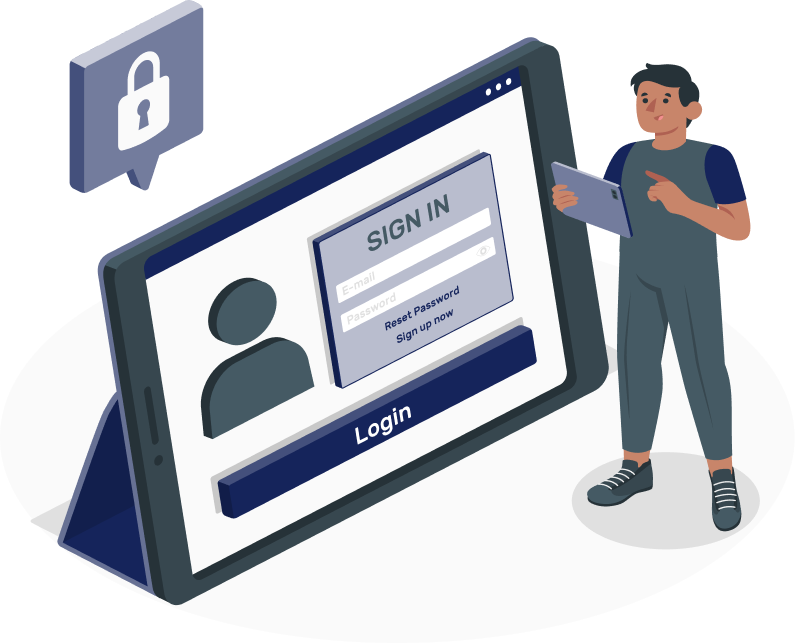
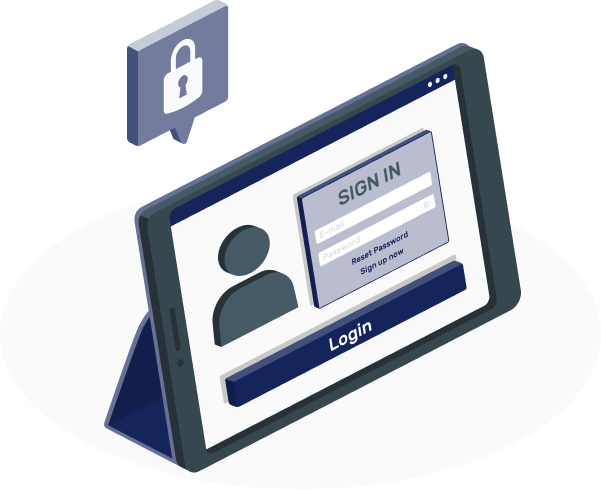
size text

diff --git a/apprechartcle/src/pages/login.js b/apprechartcle/src/pages/login.js
@@ -6,41 +6,42 @@ import Google from './../images/google.png' ;
 function Login () {
 
     return(
-        <div className="flex w-full   ">
+        <div className="flex w-full  mb-10   ">
            
-            <div className=" flex-wrap w-full h-full bg-[#c3eefb] justify-center items-center md:flex-row md:space-x-6  md:space-y-0  ">
-                   <div className="text-4xl font-signature mt-2 ">
-                   <img src={Logo} alt="logo" className='w-25 inline-block items-center' />
+            <div className=" flex-wrap  w-full h-full bg-[#c3eefb] justify-center items-center md:flex-row md:space-x-6  md:space-y-0  ">
+            <div className="text-40px mb-10 font-signature font-semibold ml-10 mt-6">
+                   <img src={Logo} alt="logo" className='w-30 inline-block items-center ' />
                     <span className=' text-[#15245B] '>Ci</span>
                     <span className=' text-[#FBBC05] '>Topia</span>
                    </div>
                    <div className="hidden sm:block">
-                   <img src={photo2} alt=""  className="ml-20 mt-6" />
+                   <img src={photo2} alt=""  className="pt-20 mt-10" />
                    </div>
             </div>
-            <div className="w-full h-full bg-[#FAFAFA] font-signature ml-20 mt-20 ">
+            <div className="w-full h-full bg-[#FAFAFA] font-signature font-extrabold mb-10 ml-20 mt-20">
                  
-                   <h1 className=" text-[#15245B] font-signature text-4xl ">Welcome back To <br /> <span className="text-[#FBBC05]" >Sci</span> <span className="text-[#F57581] ">Topia !</span> </h1>
+                   <h1 className=" text-[#15245B] text-custom ">Welcome back To <br /> <span className="text-[#FBBC05]" >Sci</span> <span className="text-[#F57581] ">Topia !</span> </h1>
                     <form>
                         
-                        <div>
-                            <label >User Name</label>
+                        <div className="font-semibold text-28px text-[#15245B] ">
+                            <label >Nom Utilisateur</label>
                         </div>
-                        <div> <input placeholder="Enter Your User Name" className="rounded-lg ring-1 ring-[#15245B] mt-2 p-2   focus:outline-none" type="text" /></div>
-                        <div>
-                            <label >Password</label>
+                        <div> <input placeholder="Entrer votre nom" className="rounded-lg ring-1 ring-[#15245B] mt-2 p-2  font-normal  focus:outline-none" type="text" /></div>
+                        <div className="font-semibold text-28px text-[#15245B]">
+                            <label >Mot de passe</label>
                         </div>
-                        <div><input placeholder="Enter Your Password" className="rounded-lg  mt-2 p-2   ring-1 ring-[#15245B]  focus:outline-none" type="password" /></div>
+                        <div><input placeholder="Entrer votre mot de passe" className="rounded-lg  mt-2 p-2   ring-1 ring-[#15245B] font-normal focus:outline-none" type="password" /></div>
                         <div className=" text-[#15245B] py-2">
                             <input type="checkbox" id="remember" />
-                            <label for="remember" className="mr-4"> <a href="">Forgot password</a></label>
+                            <label for="remember" className="mr-4"> <a href="">Mot de passe oublié</a></label>
                         </div>
-                        <button className="w-full my-5 py-2  bg-[#15245B] text-[#FAFAFA] rounded-full pr-8 pl-8">log In</button>
-                        <button className="w-full my-5 py-2  bg-[#FAFAFA]  text-[#15245B] rounded-full pr-8 pl-8 flex items-center justify-center rounded-full border-2 border-[#15245B]">continue with Google <img src={Google} alt="google"  className="w-8 h-8" /></button>
+                        <button className="w-full my-5 py-2  bg-[#15245B] text-[#FAFAFA] font-semibold rounded-full pt-4 pb-4 pr-8 pl-8">Se connecter</button>
+                         <p className="text-center font-semibold text-25px ">OU</p>
+                        <button className="w-full my-2 py-2  bg-[#FAFAFA]  text-[#15245B] font-semibold rounded-full pr-8 pl-8 flex items-center justify-center  border-2 border-[#15245B]">Continuer avec Google<img src={Google} alt="google"  className="w-8 h-8" /></button>
                     </form>
                     <div className="flex items-center justify-center">
-                      <p>Don't have account? </p>
-                      <button className="text-[#F57581] ">Sign Up</button>
+                      <p>Vous n'avez pas de compte ?</p>
+                      <button className="text-[#F57581] ">S'inscrire</button>
                       </div>
 
             </div>

diff --git a/apprechartcle/src/pages/signin.js b/apprechartcle/src/pages/signin.js
@@ -7,37 +7,38 @@ function Signin() {
   return (
     <div className="flex w-full   ">
            
-            <div className=" flex-wrap w-full  h-full  bg-[#c3eefb] justify-center  items-center  md:flex-row md:space-x-6  md:space-y-0  ">
-                   <div className="text-40px font-signature font-semibold mt-2 font-">
-                   <img src={Logo} alt="logo" className='w-25 inline-block items-center' />
+            <div className=" flex-wrap w-full  h-full  bg-[#c3eefb] justify-center   items-center  md:flex-row md:space-x-6  md:space-y-0  ">
+            <div className="text-40px font-signature  font-semibold ml-10 mt-6">
+                   <img src={Logo} alt="logo" className='w-30 inline-block items-center ' />
                     <span className=' text-[#15245B] '>Ci</span>
                     <span className=' text-[#FBBC05] '>Topia</span>
                    </div>
                    <div className="hidden sm:block">
-                   <img src={photo3} alt=""  className="" />
+                   <img src={photo3} alt=""  className="mb-5 yb-0" />
                    </div>
             </div>
             <div className="w-full h-full bg-[#FAFAFA] font-signature font-extrabold  ml-20 mt-20 ">
                  
-                   <h1 className=" text-[#15245B] font-signature text-custom ">Welcome To <br /> <span className="text-[#FBBC05]" >Sci</span> <span className="text-[#F57581] ">Topia !</span> </h1>
+                   <h1 className=" text-[#15245B] text-custom ">Welcome To <br /> <span className="text-[#FBBC05]" >Sci</span> <span className="text-[#F57581] ">Topia !</span> </h1>
                     <form>
                         
-                        <div className='font-signature font-semibold text-28px text-[#15245B] '>
+                        <div className='font-semibold text-28px text-[#15245B] '>
                             <label >Nom Utilisateur</label>
                         </div>
                         <div> <input placeholder="Entrer votre nom" className="rounded-md text-21px ring-1 ring-[#15245B] mt-2 p-2 text-[#A59E9E] font-normal   focus:outline-none" type="text" /></div>
                         <div>
-                            <label className='font-signature font-semibold text-28px text-[#15245B] ' >E-mail</label>
+                            <label className='font-semibold text-28px text-[#15245B] ' >E-mail</label>
                         </div>
                         <div> <input placeholder="Entrer votre E-mail" className="rounded-md  text-21px ring-1 ring-[#15245B] mt-2 p-2 text-[#A59E9E] font-normal    focus:outline-none" type="text" /></div>
-                        <div className='font-signature font-semibold text-28px text-[#15245B]'>
+                        <div className='font-semibold text-28px text-[#15245B]'>
                             <label >Mot de passe</label>
                         </div>
                         <div><input placeholder="Entrer votre mot de passe" className="rounded-md  text-21px mt-2 p-2   ring-1 ring-[#15245B] text-[#A59E9E] font-normal  focus:outline-none" type="password" /></div>
                         <div className="flex justify-between text-[#15245B] py-2">
-                            <p className="flex items-center text-[#A59E9E] font-normal"><input className="mr-2  " type="checkbox" />I agree to the Terms of services and privacy policy</p>
+                            <p className="flex items-center text-[#A59E9E] font-normal"><input className="mr-2  " type="checkbox" />J'accepte les conditions d'utilisation et la politique de confidentialité</p>
                         </div>
-                        <button className="w-full my-5 py-2  bg-[#15245B] text-[#FAFAFA] font-semibold rounded-full  pr-8 pl-8">S'inscrire</button>
+                        <button className="w-full my-5 py-2  bg-[#15245B] text-[#FAFAFA] font-semibold rounded-full pt-4 pb-4 pr-8 pl-8">S'inscrire</button>
+                        <p className="text-center font-semibold text-25px ">OU</p>
                         <button className="w-full my-5 py-2  bg-[#FAFAFA]  text-[#15245B] font-semibold rounded-full pr-8 pl-8 flex items-center justify-center  border-2 border-[#15245B]">Continuer avec Google<img src={Google} alt="google"  className="w-8 h-8" /></button>
                     </form>
                       <div className="flex items-center justify-center font-medium">

diff --git a/apprechartcle/src/pages/main.js b/apprechartcle/src/pages/main.js
@@ -9,32 +9,32 @@ function Main(){
       <div className=" mt-0 p-0 h-full mb-0  grid-cols-{1} ">
         <div className="bg-[#c3eefb]">
        
-             <div className="image">
-             <img src={image}  alt="photo" className=" float-right  w-40 h-40" />
-             </div>
-
-         <div className="">
-            <div className="text-3xl font-signature- ml-10 text-55px font-extrabold ">
-
-                  <h1 className=''>
-                  <span className="text-[#F57581]">Exploration</span>
-                  <span className="text-[#15245B]">Scientifique</span>
+        <div className=" flex justify-around">
+            <div className="font-signature">
+              <div className="text-26px  font-bold text-50px ml-10 ">
+                 <h1 className=''>
+                 <span className="text-[#F57581]">Exploration</span>
+                 <span className="text-[#15245B]">Scientifique</span>
                  </h1>
                  <h1 className='text-[#15245B]  '>Notre Répertoire </h1>
                  <h1 className="text-[#15245B] ">Complet D’articles</h1>
-           </div>
-              <p className='text-[#000000]  text-26px ml-10 mt-10 pb-10'>
+              </div>
+              <p className='text-black text-opacity-64  ml-10 mt-10 mb-10 font-medium'>
               Explorez des milliers d'articles scientifiques <br /> provenant de domaines variés.
                Scitopia <br />vous permet de plonger au cœur des 
               découvertes <br />les plus récentes et des connaissances <br /> pointues.
               </p>
-
-         </div>
+             
+             </div>
+             <div className="image">
+                 <img src={image}  alt="photo" className="float-right  object-cover " />
+              </div>
+              </div>
         </div> 
 
-            <div className="bg-[#FFFFFF] pt-10 pl-10 font-signature ">
-                        <h1 className="font-extrabold text-[#15245B] text-55px">A Propos De L’Equipe:</h1>
-                        <p className="font-medium text-31px text-[#0D0D0D]">Nous sommes une équipe de cinq étudiants de l'École Nationale Supérieure <br />d'Informatique (ESI), passionnés par le génie logiciel et la technologie. Ce <br /> projet est le fruit de notre engagement dans le module de génie logiciel, où <br />nous avons entrepris de créer une plateforme intuitive pour la recherche <br /> d'articles scientifiques.</p>
+            <div className="bg-[#FFFFFF] pt-10 pl-10 font-signature  ml-10 ">
+                        <h1 className="font-extrabold text-[#15245B] text-50px">A Propos De L’Equipe:</h1>
+                        <p className="font-medium text-26px text-[#0D0D0D]">Nous sommes une équipe de cinq étudiants de l'École Nationale Supérieure <br />d'Informatique (ESI), passionnés par le génie logiciel et la technologie. Ce <br /> projet est le fruit de notre engagement dans le module de génie logiciel, où <br />nous avons entrepris de créer une plateforme intuitive pour la recherche <br /> d'articles scientifiques.</p>
                         
             </div>
             <div>

diff --git a/apprechartcle/src/pages/pageprncpl.js b/apprechartcle/src/pages/pageprncpl.js
@@ -5,22 +5,20 @@ import { Link } from 'react-router-dom';
 
 
 function Pageprncpl(){
-   
+  console.log('Pageprncpl rendu !');
     return (
         
-      <div className=" mt-0 p-0 h-screen bg-[#c3eefb]  ">
-                <div className="text-2xl font-signature">
-                 <img src={Logo} alt="logo" className='w-10  ml-8 inline-block items-center  ' />
-                 <span className=' text-[#15245B] '>Ci</span>
-                 <span className=' text-[#FBBC05] '>Topia</span>
-               </div>
+      <div className="  h-full bg-[#c3eefb]  ">
+                 <div className="text-40px font-signature font-semibold ml-10 yt-6 mb-6">
+                   <img src={Logo} alt="logo" className='w-30 inline-block items-center ' />
+                    <span className=' text-[#15245B] '>Ci</span>
+                    <span className=' text-[#FBBC05] '>Topia</span>
+                   </div>
 
-               <div className="image">
-                 <img src={image}  alt="photo" className=" float-right w-90 h-70 object-cover" />
-              </div>
-
-              <div className="">
-              <div className="text-3xl font-signature- ml-10 ">
+             
+          <div className=" flex justify-around">
+            <div className="font-signature">
+              <div className="text-26px  font-bold text-50px ml-10 ">
                  <h1 className=''>
                  <span className="text-[#F57581]">Exploration</span>
                  <span className="text-[#15245B]">Scientifique</span>
@@ -28,13 +26,13 @@ function Pageprncpl(){
                  <h1 className='text-[#15245B]  '>Notre Répertoire </h1>
                  <h1 className="text-[#15245B] ">Complet D’articles</h1>
               </div>
-              <p className='text-[#000000] ml-10 mt-10 mb-10'>
+              <p className='text-black text-opacity-64  ml-10 mt-10 mb-10 font-medium'>
               Explorez des milliers d'articles scientifiques <br /> provenant de domaines variés.
                Scitopia <br />vous permet de plonger au cœur des 
               découvertes <br />les plus récentes et des connaissances <br /> pointues.
               </p>
               <div className="space-x-4 ml-10">
-                   <Link to="/signin">
+              <Link to="/signin">
                             <button  className=" space-x-4 space-y-4 px-7 py-2 bg-[#15245B] text-[#c3eefb] rounded-full pr-8 pl-8"> S'inscrire</button>
                   </Link>
                   <Link to="/login">
@@ -42,8 +40,12 @@ function Pageprncpl(){
                    </Link>
 
              </div>
+             </div>
+             <div className="image">
+                 <img src={image}  alt="photo" className="float-right  object-cover " />
+              </div>
+              </div>
 
-      </div>
       </div>
      
     );

diff --git a/apprechartcle/src/App.js b/apprechartcle/src/App.js
@@ -3,28 +3,34 @@ import React from 'react';
 import { BrowserRouter as Router, Route, Routes } from 'react-router-dom';
 import Main from './pages/main';
 import Login from './pages/login';
-import SearchPage from './pages/search'
-import SearchResultPage from './pages/searchResult'
-import ResultsPage from './components/Results'
-import Navbar  from './components/Navbar';
-import  Recharche from './pages/recharche';
-import Favoris from './pages/favoris' ;
+import SearchPage from './pages/search';
+import SearchResultPage from './pages/searchResult';
+import ResultsPage from './components/Results';
+import Navbar from './components/Navbar';
+import Recharche from './pages/recharche';
+import Favoris from './pages/favoris';
 import Signin from './pages/signin';
 import Pageprncpl from './pages/pageprncpl';
-import Options from './components/optionrech' ; 
-import SearchResult from './pages/searchResult' ;
-
+import Options from './components/optionrech';
+import SearchResult from './pages/searchResult';
 
 const App = () => {
   return (
     <div className="App">
-        
-      
-           
+         <Router>
+          <Navbar />
+      <Routes>
+        <Route path="/" element={<Main/>} />
+        <Route path="/recharche" element={<Recharche/>} />
+        <Route path="/favoris" element={<Favoris/>} />
+      </Routes>
+    </Router>
+
+          <Main></Main>
+
       
     </div>
   );
 };
 
 export default App;
-

diff --git a/apprechartcle/src/components/Navbar.js b/apprechartcle/src/components/Navbar.js
@@ -6,17 +6,17 @@ import { Link } from 'react-router-dom';
 
 function Navbar() {
   return (
-    <div className=' pb-8 pt-8  bg-[#c3eefb] ' >
+    <div className=' flex justify-between pb-8 pt-8  bg-[#c3eefb]  ' >
         
-        <div className=" flex justify-between ">
+       
           
-                 <div className="text-2xl font-signature">
-                    <img src={Logo} alt="logo" className='w-10  ml-8 inline-block items-center  ' />
+        <div className="text-40px font-signature  font-semibold ml-10 mt-6">
+                   <img src={Logo} alt="logo" className='w-30 inline-block items-center ' />
                     <span className=' text-[#15245B] '>Ci</span>
                     <span className=' text-[#FBBC05] '>Topia</span>
-                  </div>
+                   </div>
                   <div className='flex justify-start'>
-                  <nav className='flex gap-8'>
+                  <nav className='flex gap-8 font-medium font-signature text-23px'>
                           
                                   <Link to="/" className='text-[#15245B]  mt-5 mr-3 '>À propos</Link>
                                   <Link to="/recharche" className='text-[#15245B]  mt-5 mr-3 '>recharche</Link>
@@ -27,7 +27,7 @@ function Navbar() {
                   </div>
         </div>
                   
-         </div>
+        
    
   )
 }

diff --git a/apprechartcle/src/components/optionrech.js b/apprechartcle/src/components/optionrech.js
@@ -8,10 +8,10 @@ const Optionrech=({ title,description,img}) => {
 
   return (
     <section>
-        <div className=' w-25 h-130 bg-[#15245B] text-[#FAFAFA] rounded-[20px]  ml-6 mr-4'>
-        <img src={img} alt="" className='w-20 h-20 ml-10' />
-           <h1 className='font-bold text-sm/[30px]'>{title}</h1>
-           <p className='font-semibold text-sm/[20px]'>{description}</p>
+        <div className=' w-15 h-30 bg-[#15245B] text-[#FAFAFA] rounded-[20px]  ml-6 mr-4'>
+        <img src={img} alt="" className=' flex items-center justify-center ' />
+           <h1 className='font-bold text-30px flex items-center justify-center '>{title}</h1>
+           <p className='font-semibold text-20px text-center'>{description}</p>
         </div>
        
     </section>
@@ -41,7 +41,7 @@ const Options = () =>{
      return(
            <section>
                  <div>
-                     <h1 className='font-signature font-extrabold text-[#15245B] mt-6 ml-6 text-50px'> Outils de Recherche <br />Scientifique </h1>  
+                     <h1 className='flex items-center justify-center  font-signature font-extrabold text-[#15245B] mt-10 ml-6 text-50px'> Outils de Recherche <br />Scientifique </h1>  
                      <div className='flex items-stretch ml-6 mr-4 font-signature '>
                         {
                             options.map((option,index) =>(

diff --git a/apprechartcle/src/pages/search.js b/apprechartcle/src/pages/search.js
@@ -7,7 +7,7 @@ function search(){
    
     return (
         
-      <div className=" w-full h-full bg-[#c3eefb]  fixed top-0 left-0 right-0 ">
+      <div className=" w-full h-full bg-[#c3eefb]  top-0 left-0 right-0 ">
          <div className="relative flex items-center justify-between p-16  gap-8">
          <div className="ml-10 mt-3">
              <h1 className=' '>

diff --git a/apprechartcle/tailwind.config.js b/apprechartcle/tailwind.config.js
@@ -14,7 +14,10 @@ module.exports = {
       '40px':'40px',
       '28px':'28px',   
       '21px':'21px',
+      '23px':'23px',
+      '25px':'25px',
       '26px':'26px',
+      '30px':'30px', 
       '31px':'31px', 
       '55px':'55px', 
       '50px':'50px',
